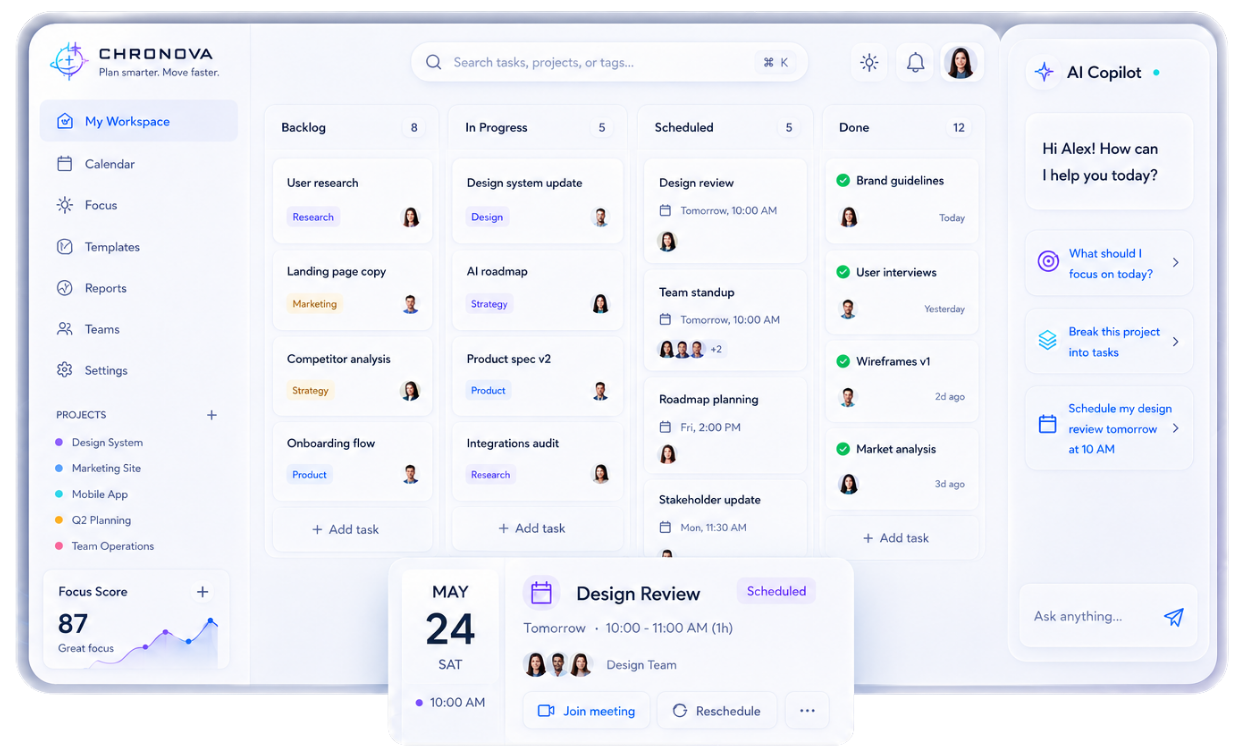
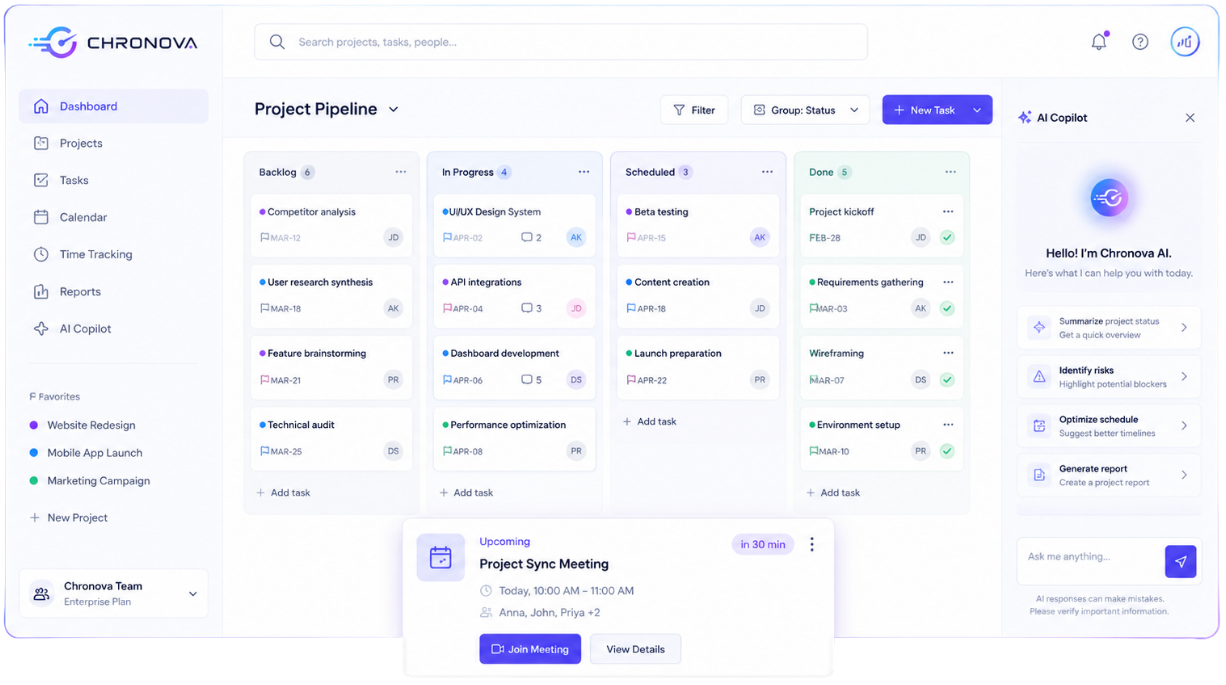
feat: setup routing for navbar, login, and register pages

diff --git a/components/Navbar.vue b/components/Navbar.vue
@@ -13,36 +13,20 @@
 
       <!-- Links Section -->
       <ul class="hidden md:flex items-center gap-8 text-[0.85rem] font-semibold text-[#334155]">
-        <li><a href="#" class="hover:text-blue-600 transition-colors">Features</a></li>
-        <li><a href="#" class="hover:text-blue-600 transition-colors">AI Copilot</a></li>
-        <li><a href="#" class="hover:text-blue-600 transition-colors">Pricing</a></li>
-        <li><a href="#" class="hover:text-blue-600 transition-colors">Templates</a></li>
-        
-        <!-- Dropdown Resource -->
-        <li class="relative group py-4 -my-4 cursor-pointer">
-          <a class="flex items-center gap-1 hover:text-blue-600 transition-colors">
-            Resources
-            <svg class="w-3.5 h-3.5 mt-0.5 text-slate-400 group-hover:text-blue-600 transition-transform duration-300 group-hover:rotate-180" fill="none" stroke="currentColor" viewBox="0 0 24 24"><path stroke-linecap="round" stroke-linejoin="round" stroke-width="2.5" d="M19 9l-7 7-7-7"></path></svg>
-          </a>
-          <!-- Dropdown Menu -->
-          <div class="absolute top-full right-1/2 translate-x-1/2 mt-2 w-48 bg-white/95 backdrop-blur-md rounded-2xl shadow-[0_10px_40px_rgba(0,0,0,0.1)] border border-slate-100 opacity-0 invisible group-hover:opacity-100 group-hover:visible transition-all duration-300 transform translate-y-3 group-hover:translate-y-0">
-            <div class="p-2 space-y-1">
-              <a href="#" class="block px-4 py-2.5 text-sm font-medium text-slate-600 hover:bg-blue-50 hover:text-blue-600 rounded-xl transition-colors">Documentation</a>
-              <a href="#" class="block px-4 py-2.5 text-sm font-medium text-slate-600 hover:bg-blue-50 hover:text-blue-600 rounded-xl transition-colors">Blog & News</a>
-              <a href="#" class="block px-4 py-2.5 text-sm font-medium text-slate-600 hover:bg-blue-50 hover:text-blue-600 rounded-xl transition-colors">Community</a>
-            </div>
-          </div>
-        </li>
+        <li><NuxtLink :to="{ path: '/', hash: '#how-it-works' }" class="hover:text-blue-600 transition-colors">How It Works</NuxtLink></li>
+        <li><NuxtLink :to="{ path: '/', hash: '#features' }" class="hover:text-blue-600 transition-colors">Features</NuxtLink></li>
+        <li><NuxtLink :to="{ path: '/', hash: '#pricing' }" class="hover:text-blue-600 transition-colors">Pricing</NuxtLink></li>
+        <li><NuxtLink :to="{ path: '/', hash: '#faq' }" class="hover:text-blue-600 transition-colors">FAQ</NuxtLink></li>
       </ul>
 
       <!-- Actions Section -->
       <div class="flex items-center gap-3">
-        <button class="px-5 py-2.5 text-[0.85rem] font-bold text-slate-700 bg-white border border-slate-200 rounded-xl hover:bg-slate-50 hover:border-slate-300 hover:shadow-sm transition-all">
+        <NuxtLink to="/login" class="px-5 py-2.5 text-[0.85rem] font-bold text-slate-700 bg-white border border-slate-200 rounded-xl hover:bg-slate-50 hover:border-slate-300 hover:shadow-sm transition-all text-center">
           Sign In
-        </button>
-        <button class="px-6 py-2.5 text-[0.85rem] font-bold text-white rounded-xl bg-gradient-to-r from-[#2dd4bf] via-[#3b82f6] to-[#a855f7] hover:opacity-90 hover:shadow-[0_4px_20px_rgba(59,130,246,0.4)] hover:-translate-y-0.5 transition-all duration-300">
+        </NuxtLink>
+        <NuxtLink to="/register" class="px-6 py-2.5 text-[0.85rem] font-bold text-white rounded-xl bg-gradient-to-r from-[#2dd4bf] via-[#3b82f6] to-[#a855f7] hover:opacity-90 hover:shadow-[0_4px_20px_rgba(59,130,246,0.4)] hover:-translate-y-0.5 transition-all duration-300 text-center">
           Get Started
-        </button>
+        </NuxtLink>
       </div>
 
     </nav>

diff --git a/pages/register.vue b/pages/register.vue
@@ -1,0 +1,41 @@
+<template>
+  <div class="min-h-screen bg-[#f8f9fc] flex items-center justify-center p-4 font-sans">
+    <div class="max-w-md w-full bg-white rounded-3xl shadow-xl shadow-indigo-100/50 p-8 border border-slate-100 relative overflow-hidden">
+      <!-- Glow effect -->
+      <div class="absolute -top-24 -left-24 w-48 h-48 bg-purple-500/10 blur-[50px] rounded-full pointer-events-none"></div>
+
+      <div class="text-center mb-8 relative z-10">
+        <NuxtLink to="/" class="inline-block mb-4">
+          <img src="/logo.png" alt="Chronova Logo" class="h-10 w-auto mx-auto drop-shadow-sm" />
+        </NuxtLink>
+        <h1 class="text-2xl font-bold text-slate-900 mb-2 tracking-tight">Create an account</h1>
+        <p class="text-sm text-slate-500">Start your 14-day free trial. No credit card required.</p>
+      </div>
+      
+      <!-- Placeholder Form -->
+      <div class="space-y-5 relative z-10">
+        <div>
+          <label class="block text-sm font-medium text-slate-700 mb-1.5">Full Name</label>
+          <input type="text" class="w-full px-4 py-2.5 rounded-xl border border-slate-200 focus:outline-none focus:ring-2 focus:ring-indigo-500/20 focus:border-indigo-500 transition-all text-sm" placeholder="John Doe" />
+        </div>
+        <div>
+          <label class="block text-sm font-medium text-slate-700 mb-1.5">Email</label>
+          <input type="email" class="w-full px-4 py-2.5 rounded-xl border border-slate-200 focus:outline-none focus:ring-2 focus:ring-indigo-500/20 focus:border-indigo-500 transition-all text-sm" placeholder="you@example.com" />
+        </div>
+        <div>
+          <label class="block text-sm font-medium text-slate-700 mb-1.5">Password</label>
+          <input type="password" class="w-full px-4 py-2.5 rounded-xl border border-slate-200 focus:outline-none focus:ring-2 focus:ring-indigo-500/20 focus:border-indigo-500 transition-all text-sm" placeholder="Create a strong password" />
+        </div>
+        
+        <button class="w-full py-3 px-4 bg-gradient-to-r from-[#2dd4bf] via-[#3b82f6] to-[#a855f7] hover:opacity-90 text-white text-sm font-bold rounded-xl shadow-[0_4px_14px_rgba(59,130,246,0.3)] hover:shadow-[0_6px_20px_rgba(59,130,246,0.4)] hover:-translate-y-0.5 transition-all">
+          Get Started
+        </button>
+      </div>
+      
+      <p class="text-center text-sm text-slate-500 mt-8 relative z-10">
+        Already have an account? 
+        <NuxtLink to="/login" class="text-indigo-600 font-semibold hover:underline">Sign in</NuxtLink>
+      </p>
+    </div>
+  </div>
+</template>

diff --git a/pages/login.vue b/pages/login.vue
@@ -1,0 +1,40 @@
+<template>
+  <div class="min-h-screen bg-[#f8f9fc] flex items-center justify-center p-4 font-sans">
+    <div class="max-w-md w-full bg-white rounded-3xl shadow-xl shadow-indigo-100/50 p-8 border border-slate-100 relative overflow-hidden">
+      <!-- Glow effect -->
+      <div class="absolute -top-24 -right-24 w-48 h-48 bg-indigo-500/10 blur-[50px] rounded-full pointer-events-none"></div>
+
+      <div class="text-center mb-8 relative z-10">
+        <NuxtLink to="/" class="inline-block mb-4">
+          <img src="/logo.png" alt="Chronova Logo" class="h-10 w-auto mx-auto drop-shadow-sm" />
+        </NuxtLink>
+        <h1 class="text-2xl font-bold text-slate-900 mb-2 tracking-tight">Welcome back</h1>
+        <p class="text-sm text-slate-500">Enter your details to sign in to your account</p>
+      </div>
+      
+      <!-- Placeholder Form -->
+      <div class="space-y-5 relative z-10">
+        <div>
+          <label class="block text-sm font-medium text-slate-700 mb-1.5">Email</label>
+          <input type="email" class="w-full px-4 py-2.5 rounded-xl border border-slate-200 focus:outline-none focus:ring-2 focus:ring-indigo-500/20 focus:border-indigo-500 transition-all text-sm" placeholder="you@example.com" />
+        </div>
+        <div>
+          <div class="flex items-center justify-between mb-1.5">
+            <label class="block text-sm font-medium text-slate-700">Password</label>
+            <a href="#" class="text-xs font-semibold text-indigo-600 hover:text-indigo-700">Forgot password?</a>
+          </div>
+          <input type="password" class="w-full px-4 py-2.5 rounded-xl border border-slate-200 focus:outline-none focus:ring-2 focus:ring-indigo-500/20 focus:border-indigo-500 transition-all text-sm" placeholder="••••••••" />
+        </div>
+        
+        <button class="w-full py-3 px-4 bg-indigo-600 hover:bg-indigo-700 text-white text-sm font-bold rounded-xl shadow-[0_4px_14px_rgba(79,70,229,0.3)] hover:shadow-[0_6px_20px_rgba(79,70,229,0.4)] hover:-translate-y-0.5 transition-all">
+          Sign In
+        </button>
+      </div>
+      
+      <p class="text-center text-sm text-slate-500 mt-8 relative z-10">
+        Don't have an account? 
+        <NuxtLink to="/register" class="text-indigo-600 font-semibold hover:underline">Get started</NuxtLink>
+      </p>
+    </div>
+  </div>
+</template>

diff --git a/pages/index.vue b/pages/index.vue
@@ -73,7 +73,7 @@
     </div>
 
     <!-- How It Works Section -->
-    <section class="relative z-10 w-full bg-[#f8f9fc]">
+    <section id="how-it-works" class="relative z-10 w-full bg-[#f8f9fc]">
       <!-- Localized sticky background -->
       <div class="absolute inset-0 w-full h-full z-0 pointer-events-none">
         <div class="sticky top-0 w-full h-screen overflow-hidden">
@@ -93,7 +93,7 @@
     </div>
 
     <!-- Features Section -->
-    <Features />
+    <Features id="features" />
 
     <!-- Glowing Section Divider -->
     <div class="w-full h-px relative z-20 flex justify-center items-center bg-slate-200/80">
@@ -102,7 +102,7 @@
     </div>
 
     <!-- Pricing Section -->
-    <Pricing />
+    <Pricing id="pricing" />
 
     <!-- Glowing Section Divider -->
     <div class="w-full h-px relative z-20 flex justify-center items-center bg-slate-200/80">
@@ -111,7 +111,7 @@
     </div>
 
     <!-- FAQ Section -->
-    <Faq />
+    <Faq id="faq" />
 
     <!-- Footer -->
     <Footer />

diff --git a/components/Footer.vue b/components/Footer.vue
@@ -63,15 +63,6 @@
       <p class="text-sm text-slate-400">
         &copy; {{ new Date().getFullYear() }} Chronova Inc. All rights reserved.
       </p>
-      <div class="flex items-center gap-6 text-sm text-slate-400">
-        <span class="flex items-center gap-1.5">
-          <span class="relative flex h-2 w-2">
-            <span class="animate-ping absolute inline-flex h-full w-full rounded-full bg-green-400 opacity-75"></span>
-            <span class="relative inline-flex rounded-full h-2 w-2 bg-green-500"></span>
-          </span>
-          All systems normal
-        </span>
-      </div>
     </div>
   </footer>
 </template>
